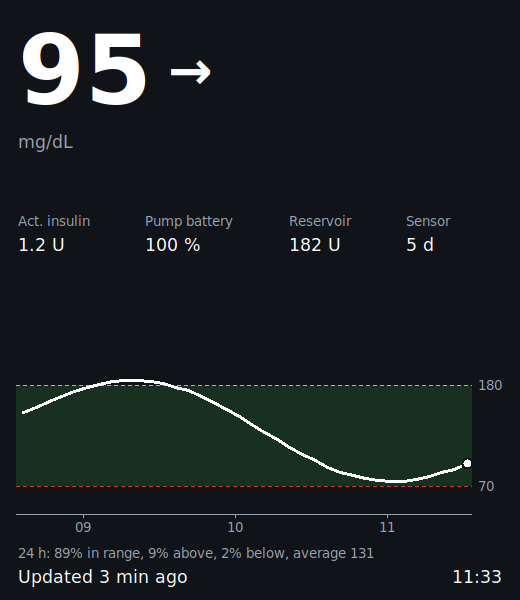
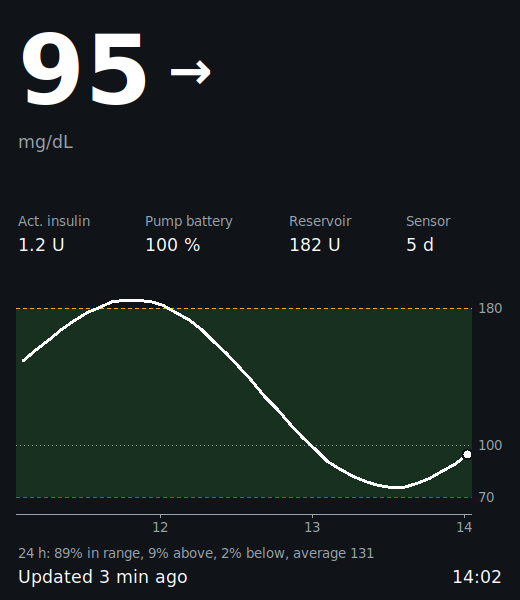
README: pump alarm photo, current photo on top; desktop screenshot redone
The photo at the top is now coreink-default.jpg, which shows the battery
symbol the older coreink.jpg predates. A fourth photo shows a pump alarm
(GPS and other photo metadata stripped). The desktop monitor screenshot
predated the scale that follows the readings and the line at 100; redone
from made-up values.

Claude-Session: https://claude.ai/code/session_01A3Wu6eKcpzJyoYuUjfh7PF

diff --git a/README.md b/README.md
@@ -5,12 +5,12 @@ pump is doing, for the people who care for the person wearing it. It hangs in
 the house, wakes every five minutes, shows the current glucose reading, trend,
 active insulin and any pump alarm (with a beep), and goes back to sleep.
 
-<img src="docs/img/coreink.jpg" alt="M5Stack Core Ink showing a glucose reading, trend arrow and active insulin" width="300">
+<img src="docs/img/coreink-default.jpg" alt="M5Stack Core Ink showing a glucose reading of 96 mg/dL, a steady trend arrow, the battery symbol and 2.1 U active insulin" width="300">
 
-| Normal reading | No sensor data | No sensor data, 5 minutes on |
-|:---:|:---:|:---:|
-| <img src="docs/img/coreink-default.jpg" alt="Display showing 96 mg/dL with a steady trend arrow, 2.1 U active insulin, updated now" width="220"> | <img src="docs/img/coreink-no-sensor-data.jpg" alt="Display with dashes instead of a reading and the last good value, 104, in brackets" width="220"> | <img src="docs/img/coreink-no-sensor-data-5min.jpg" alt="Display with dashes, the last good value 133 in brackets, and a black banner: No sensor data (5 min)" width="220"> |
-| glucose, trend, active insulin, time of the reading | dashes; the last good reading in brackets | the same, with a banner once it lasts |
+| Normal reading | No sensor data | No sensor data, 5 minutes on | Pump alarm |
+|:---:|:---:|:---:|:---:|
+| <img src="docs/img/coreink-default.jpg" alt="Display showing 96 mg/dL with a steady trend arrow, 2.1 U active insulin, updated now" width="200"> | <img src="docs/img/coreink-no-sensor-data.jpg" alt="Display with dashes instead of a reading and the last good value, 104, in brackets" width="200"> | <img src="docs/img/coreink-no-sensor-data-5min.jpg" alt="Display with dashes, the last good value 133 in brackets, and a black banner: No sensor data (5 min)" width="200"> | <img src="docs/img/coreink-alarm.jpg" alt="Display showing 65 mg/dL in white on black, 1.9 U active insulin, and a black banner: Low Sensor Glucose (12:03)" width="200"> |
+| glucose, trend, active insulin, time of the reading | dashes; the last good reading in brackets | the same, with a banner once it lasts | below 70 or above 180 the reading turns white on black; the pump's alarm and its time in a banner, with a beep |
 
 It is two parts that are built, installed and taken on a trip together:
 
